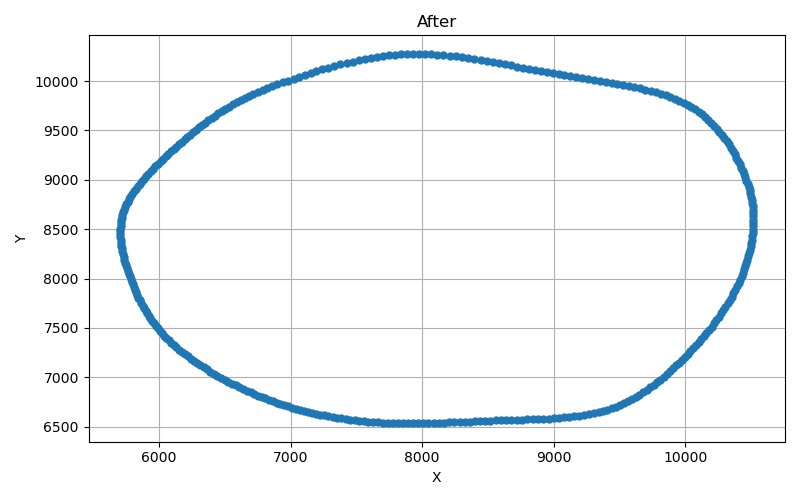
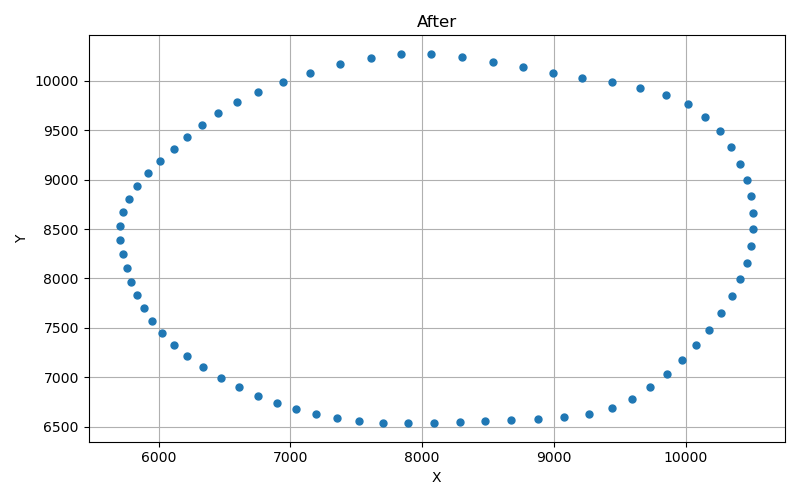
Improved performance of ships

diff --git a/server/src/systems/npc-system.ts b/server/src/systems/npc-system.ts
@@ -15,7 +15,7 @@ import NPCShip from "../entities/npcs/npc-ship";
 export default class NPCSystem implements BaseSystem {
 
     npcLimit: number = 12;
-    npcShipLimit: number = 0;
+    npcShipLimit: number = 1;
 
     constructor(private terrainMap: TerrainMap,
         private entityFactory: EntityFactory,
@@ -54,38 +54,42 @@ export default class NPCSystem implements BaseSystem {
         }
     }
 
-
     patrol(ship: NPCShip, path: Array<{ x: number, y: number }>, dt: number): void {
-        let moveDistance = ship.patrolSpeed * dt;
+        const current = path[ship.pathIndex];
+        const nextIndex = (ship.pathIndex + 1) % path.length;
+        const next = path[nextIndex];
 
-        while (moveDistance > 0) {
-            const nextIndex = (ship.pathIndex + 1) % path.length;
-            const current = path[ship.pathIndex];
-            const next = path[nextIndex];
+        const dx = next.x - current.x;
+        const dy = next.y - current.y;
+        const segLength = Math.hypot(dx, dy);
 
-            const dx = next.x - current.x;
-            const dy = next.y - current.y;
-            const segLength = Math.hypot(dx, dy);
-
-            // How much of this segment is left
-            const remaining = segLength * (1 - ship.segmentT);
-
-            if (moveDistance >= remaining) {
-                // Consume this segment entirely and move to the next
-                moveDistance -= remaining;
-                ship.pathIndex = nextIndex;
-                ship.segmentT = 0;
-            } else {
-                // Advance within the segment
-                ship.segmentT += moveDistance / segLength;
-                ship.x = current.x + dx * ship.segmentT;
-                ship.y = current.y + dy * ship.segmentT;
-                ship.r = Math.atan2(dy, dx);
-                moveDistance = 0;
-            }
+        // prevent dividing by 0
+        if (segLength === 0) {
+            ship.pathIndex = nextIndex;
+            return;
         }
-    }
 
+        // Move between each segment one at a time
+        const moveDistance = ship.patrolSpeed * dt;
+
+        const deltaT = moveDistance / segLength;
+        ship.segmentT += deltaT;
+
+        // If close enough, jump to the next segment
+        if (ship.segmentT >= 1) {
+            ship.segmentT = 0;
+            ship.pathIndex = nextIndex;
+
+            ship.x = next.x;
+            ship.y = next.y;
+        } else {
+            // Otherwise move smoothly
+            ship.x = current.x + dx * ship.segmentT;
+            ship.y = current.y + dy * ship.segmentT;
+        }
+
+        ship.r = Math.atan2(dy, dx);
+    }
 
     removeDead(npc: NPC) {
         if (npc.health <= 0) {
@@ -122,7 +126,6 @@ export default class NPCSystem implements BaseSystem {
         if (regularNpcs.length < this.npcLimit) {
             const { x, y } = this.getSpawnPoint();
             this.entityFactory.createNPC(`npc_${Date.now()}`, x, y);
-            console.log(`[NPCSystem] Created NPC at ${x}, ${y}`);
         }
     }
 
@@ -131,8 +134,6 @@ export default class NPCSystem implements BaseSystem {
 
         const spawn = path[0];
         this.entityFactory.createNPCShip(`npc-ship_${Date.now()}`, spawn.x, spawn.y);
-
-        console.log(`[NPCSystem] Created NPC Ship at ${spawn.x}, ${spawn.y}`);
     }
 
 

diff --git a/public/src/managers/ui-manager.js b/public/src/managers/ui-manager.js
@@ -16,6 +16,7 @@ export default class UIManager {
 
         this.promptElement = document.getElementById('interaction-prompt');
         this.fpsCounter = document.getElementById('fps-counter');
+        this.modelCounter = document.getElementById('model-counter')
         this.currentInteractable = null;
     }
 
@@ -54,6 +55,7 @@ export default class UIManager {
         }
 
         this.fpsCounter.innerText = `FPS: ${Math.floor(this.scene.game.loop.actualFps)}`;
+        this.modelCounter.innerText = `Nearby Models: ${this.gameManager.models.size}`;
     }
 
     /**

diff --git a/public/index.html b/public/index.html
@@ -43,8 +43,10 @@
     </form>
 
 
-    <!-- FPS counter -->
-    <p id="fps-counter" style="color:green;">FPS</p>
+    <div class="game-stats">
+        <p id="fps-counter" style="color:green;">FPS: </p>
+        <p id="model-counter" style="color: green;">Nearby Models:</p>
+    </div>
 
     <!-- Interaction prompt -->
     <div id="interaction-prompt" style="display:none;"></div>

diff --git a/scripts/test-npc-paths.ts b/scripts/test-npc-paths.ts
@@ -24,7 +24,7 @@ async function main() {
     await createPlot({ x: spline.map(n => n.x), y: spline.map(n => n.y), title: "After", output: "after.png" });
 
     spline.forEach((item) => {
-        console.log(item.x, item.y);
+        console.log(`Adding node: ${item.x}, ${item.y}`);
     });
     console.log("Plots saved: before.png, after.png");
 }

diff --git a/server/src/entities/npcs/npc-ship.ts b/server/src/entities/npcs/npc-ship.ts
@@ -9,7 +9,7 @@ export default class NPCShip extends Ship
     patrolSpeed: number = 75;   // how fast it moves when circling
     detectionRadius: number = 1000;
     target: Entity | null = null;
-    segmentT: number = 0;
+    segmentT: number = 0
 
     constructor(id: string, x: number, y: number, config: NPCShipConfig)
     {

diff --git a/server/src/engine/terrain-map.ts b/server/src/engine/terrain-map.ts
@@ -63,6 +63,7 @@ export default class TerrainMap {
     {
         const nodes = this.getTileset('npc-ship-path');
         this.npcPath = buildPathSpline(nodes, 0.5, 25, true);
+        console.log(`[TerrainMap] Generated ${this.npcPath.length} path nodes`);
     }
 
 

diff --git a/public/styles.css b/public/styles.css
@@ -178,11 +178,13 @@ input.formElement {
     pointer-events: none;
 }
 
-#fps-counter {
+.game-stats {
+    display: block;
     position: absolute;
     top: 0;
     left: 0;
 }
+
 
 
 /* ---- Interaction prompt ---- */
